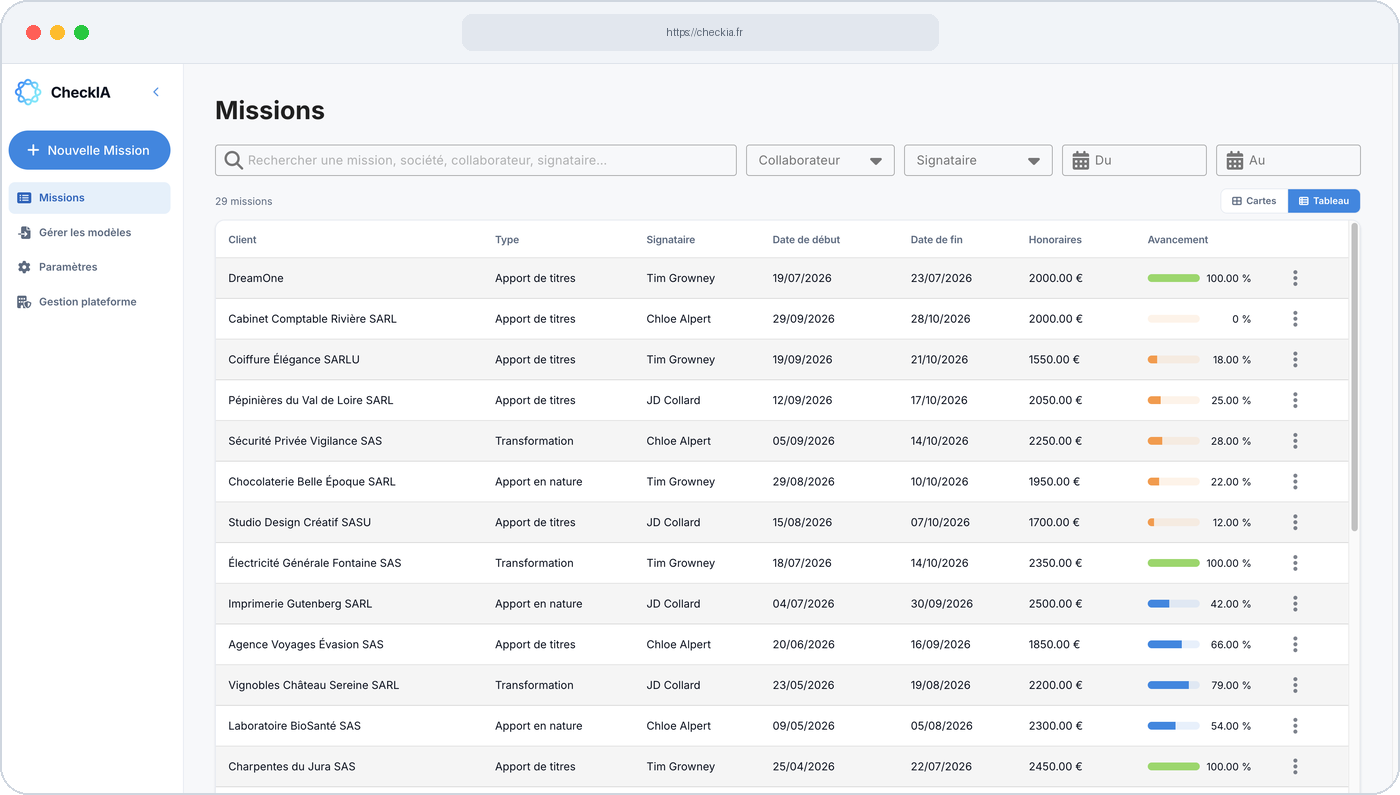
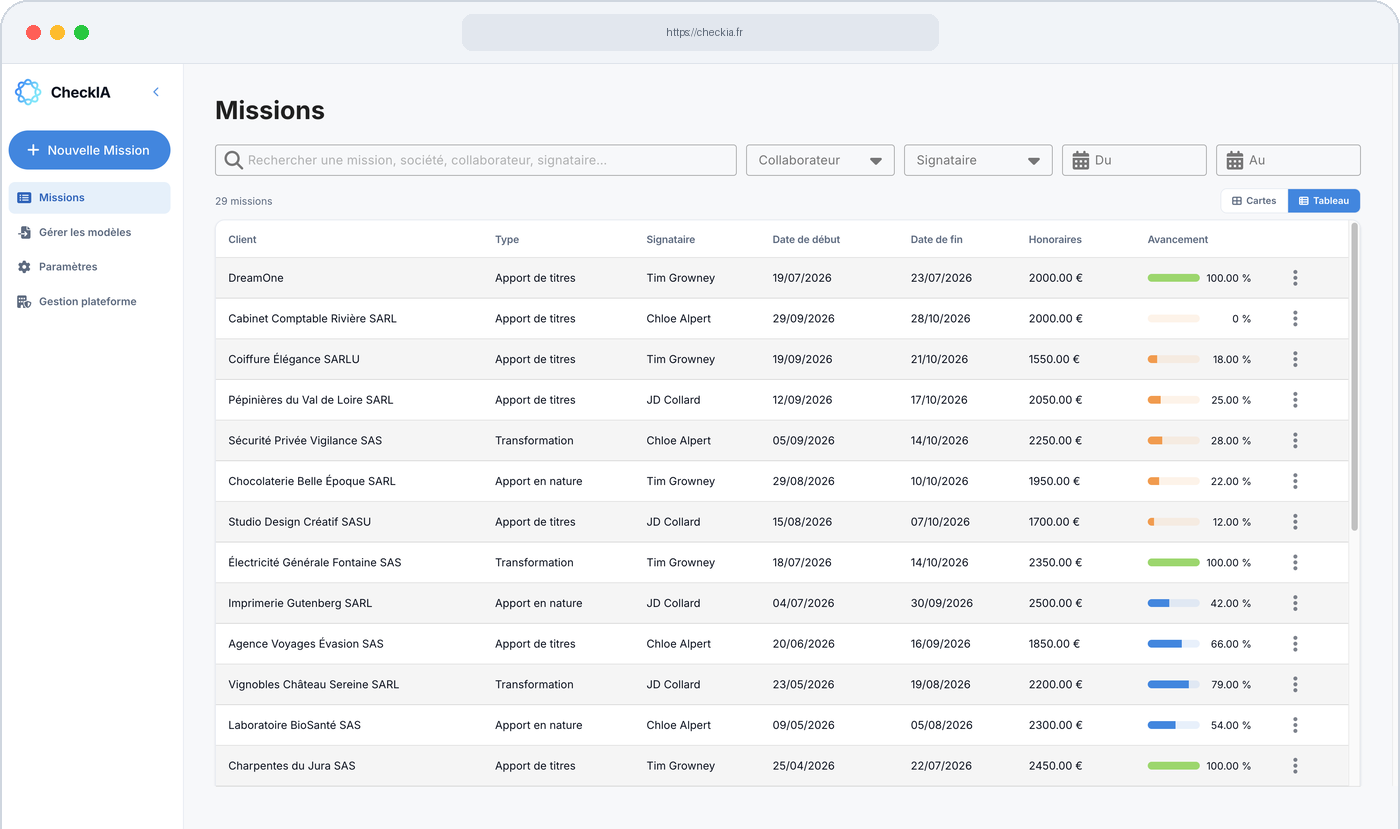
image
image

diff --git a/index.html b/index.html
@@ -152,13 +152,13 @@
 
         <div class="hero__shots reveal" style="--delay:280ms">
           <div class="hero__shot">
-            <img src="images/1.png" width="960" height="686" alt="Formulaire de cadrage d’une nouvelle mission CheckIA : nom de la mission, type de mission, temps prévu, honoraires et dates." fetchpriority="high" decoding="async">
+            <img src="images/1a.png" width="863" height="1200" alt="Liste des missions dans CheckIA : client, type de mission, signataire et avancement." fetchpriority="high" decoding="async">
           </div>
           <div class="hero__shot">
-            <img src="images/2.png" width="960" height="686" alt="Liste des documents de mission d’un dossier CheckIA, de la fiche d’acceptation au rapport, chacun au statut « Validé »." decoding="async">
+            <img src="images/2a.png" width="843" height="1200" alt="Formulaire de cadrage d’une nouvelle mission CheckIA : nom, type de mission, temps prévu et dates." decoding="async">
           </div>
           <div class="hero__shot">
-            <img src="images/3.png" width="960" height="686" alt="Vue en cartes des missions CheckIA avec type de mission, équipe, avancement et honoraires." decoding="async">
+            <img src="images/3a.png" width="817" height="1200" alt="Liste des documents de mission d’un dossier CheckIA, de la fiche d’acceptation au rapport." decoding="async">
           </div>
         </div>
       </div>
@@ -353,7 +353,7 @@
           </a>
         </div>
 
-        <img class="cta__shot reveal" style="--delay:200ms" src="images/produit-cta.png" width="1400" height="795" alt="Liste des missions dans CheckIA : client, type, signataire, dates, honoraires et avancement." loading="lazy" decoding="async">
+        <img class="cta__shot reveal" style="--delay:200ms" src="images/produit-cta.png" width="1400" height="829" alt="Liste des missions dans CheckIA : client, type, signataire, dates, honoraires et avancement." loading="lazy" decoding="async">
       </div>
     </section>
   </main>

diff --git a/css/styles.css b/css/styles.css
@@ -455,18 +455,18 @@ em { font-style: normal; color: var(--blue); }
 .hero__shots {
   display: grid;
   grid-template-columns: repeat(3, 1fr);
-  gap: clamp(0.75rem, 1.6vw, 1.25rem);
-  align-items: start;
+  gap: 0;
   max-width: 1080px;
-  height: clamp(200px, 21.5vw, 262px);
+  height: clamp(230px, 27vw, 400px);
   overflow: hidden;
   margin: clamp(2.75rem, 5vw, 4rem) auto 0;
-  -webkit-mask-image: linear-gradient(180deg, #000 62%, transparent 100%);
-  mask-image: linear-gradient(180deg, #000 62%, transparent 100%);
+  -webkit-mask-image: linear-gradient(180deg, #000 34%, transparent 97%);
+  mask-image: linear-gradient(180deg, #000 34%, transparent 97%);
 }
 
-/* Cartes arrondies avec bordure intégrée aux visuels ; fondu léger en pied. */
-.hero__shot img { width: 100%; height: auto; display: block; }
+/* Les visuels portent déjà leur propre cadre en perspective :
+   aucun contour supplémentaire, seulement un fondu en pied. */
+.hero__shot img { width: 100%; }
 
 /* --- Cartes problème ---------------------------------------------------- */
 .cards {
@@ -805,7 +805,7 @@ html.js .reveal.is-in {
 
 /* --- Petits écrans ------------------------------------------------------ */
 @media (max-width: 40rem) {
-  .hero__shots { grid-template-columns: 1fr; max-width: 20rem; height: 210px; }
+  .hero__shots { grid-template-columns: 1fr; max-width: 20rem; height: 200px; }
   .hero__shots .hero__shot:nth-child(n + 2) { display: none; }
 }
 

diff --git a/demo/index.html b/demo/index.html
@@ -279,7 +279,7 @@
           Ou écrivez-nous à <a href="mailto:contact@checkia.fr?subject=Demande%20d%27information%20CheckIA">contact@checkia.fr</a>
         </p>
 
-        <img class="cta__shot reveal" style="--delay:280ms" src="/images/produit-cta.png" width="1400" height="795" alt="Liste des missions dans CheckIA : client, type, signataire, dates, honoraires et avancement." loading="lazy" decoding="async">
+        <img class="cta__shot reveal" style="--delay:280ms" src="/images/produit-cta.png" width="1400" height="829" alt="Liste des missions dans CheckIA : client, type, signataire, dates, honoraires et avancement." loading="lazy" decoding="async">
       </div>
     </section>
   </main>

diff --git a/blog/futur-de-l-audit/ia-commissariat-aux-comptes/index.html b/blog/futur-de-l-audit/ia-commissariat-aux-comptes/index.html
@@ -438,7 +438,7 @@
 
           <a class="postcard reveal" style="--delay:80ms" href="/blog/vie-de-l-entreprise/ia-missions-specifiques-cac/">
             <div class="cover">
-              <img src="/images/produit-cta.png" width="1400" height="795" alt="Liste des missions dans CheckIA : client, type, signataire, dates, honoraires et avancement." loading="lazy" decoding="async">
+              <img src="/images/produit-cta.png" width="1400" height="829" alt="Liste des missions dans CheckIA : client, type, signataire, dates, honoraires et avancement." loading="lazy" decoding="async">
             </div>
             <div class="postcard__body">
               <p class="postmeta">

diff --git a/blog/nouveautes-produit/generation-documentaire-standardisee/index.html b/blog/nouveautes-produit/generation-documentaire-standardisee/index.html
@@ -276,7 +276,7 @@
 
           <a class="postcard reveal" style="--delay:80ms" href="/blog/vie-de-l-entreprise/ia-missions-specifiques-cac/">
             <div class="cover">
-              <img src="/images/produit-cta.png" width="1400" height="795" alt="Liste des missions dans CheckIA : client, type, signataire, dates, honoraires et avancement." loading="lazy" decoding="async">
+              <img src="/images/produit-cta.png" width="1400" height="829" alt="Liste des missions dans CheckIA : client, type, signataire, dates, honoraires et avancement." loading="lazy" decoding="async">
             </div>
             <div class="postcard__body">
               <p class="postmeta">

diff --git a/blog/vie-de-l-entreprise/modele-texte/index.html b/blog/vie-de-l-entreprise/modele-texte/index.html
@@ -373,7 +373,7 @@
 
           <a class="postcard reveal" style="--delay:80ms" href="/blog/vie-de-l-entreprise/ia-missions-specifiques-cac/">
             <div class="cover">
-              <img src="/images/produit-cta.png" width="1400" height="795" alt="Liste des missions dans CheckIA : client, type, signataire, dates, honoraires et avancement." loading="lazy" decoding="async">
+              <img src="/images/produit-cta.png" width="1400" height="829" alt="Liste des missions dans CheckIA : client, type, signataire, dates, honoraires et avancement." loading="lazy" decoding="async">
             </div>
             <div class="postcard__body">
               <p class="postmeta">

diff --git a/css/demo.css b/css/demo.css
@@ -269,9 +269,9 @@
 .trust__item img { width: 1.05rem; height: 1.05rem; opacity: 0.7; }
 
 /* --- Appel à l'action final --------------------------------------------- */
+/* Même traitement que l'accueil : la fenêtre du produit s'appuie sur le bord
+   inférieur de la section (image à angles droits en pied). */
 .cta--demo { margin-bottom: clamp(3rem, 6vw, 5rem); }
-
-.cta--demo .cta__inner { padding-bottom: clamp(3.5rem, 7vw, 6rem); }
 
 .cta__note {
   font-size: 0.9375rem;
